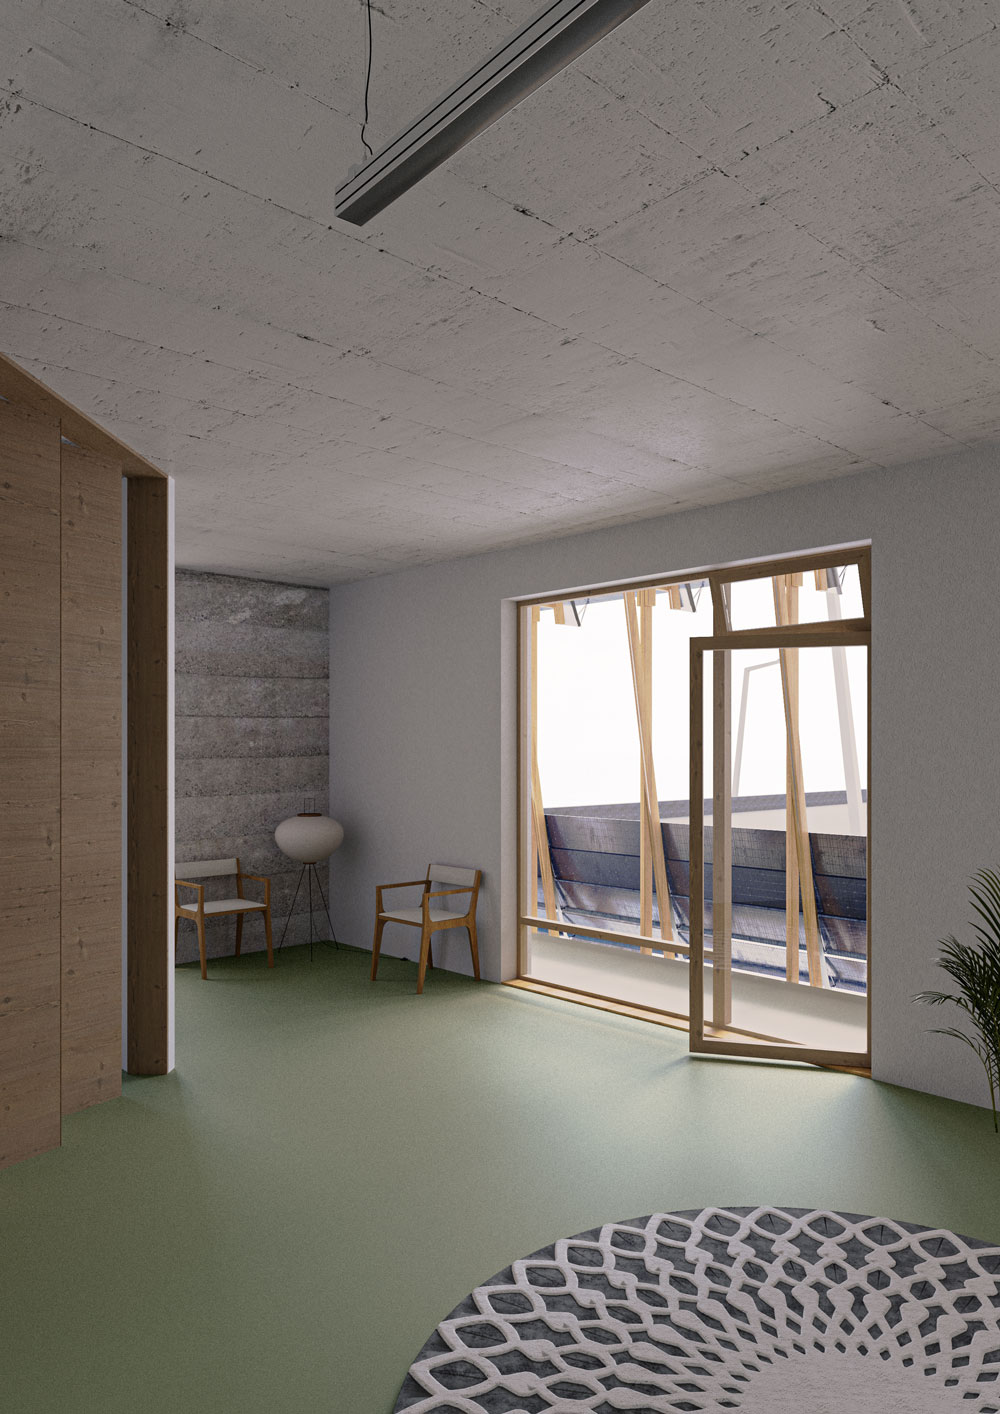
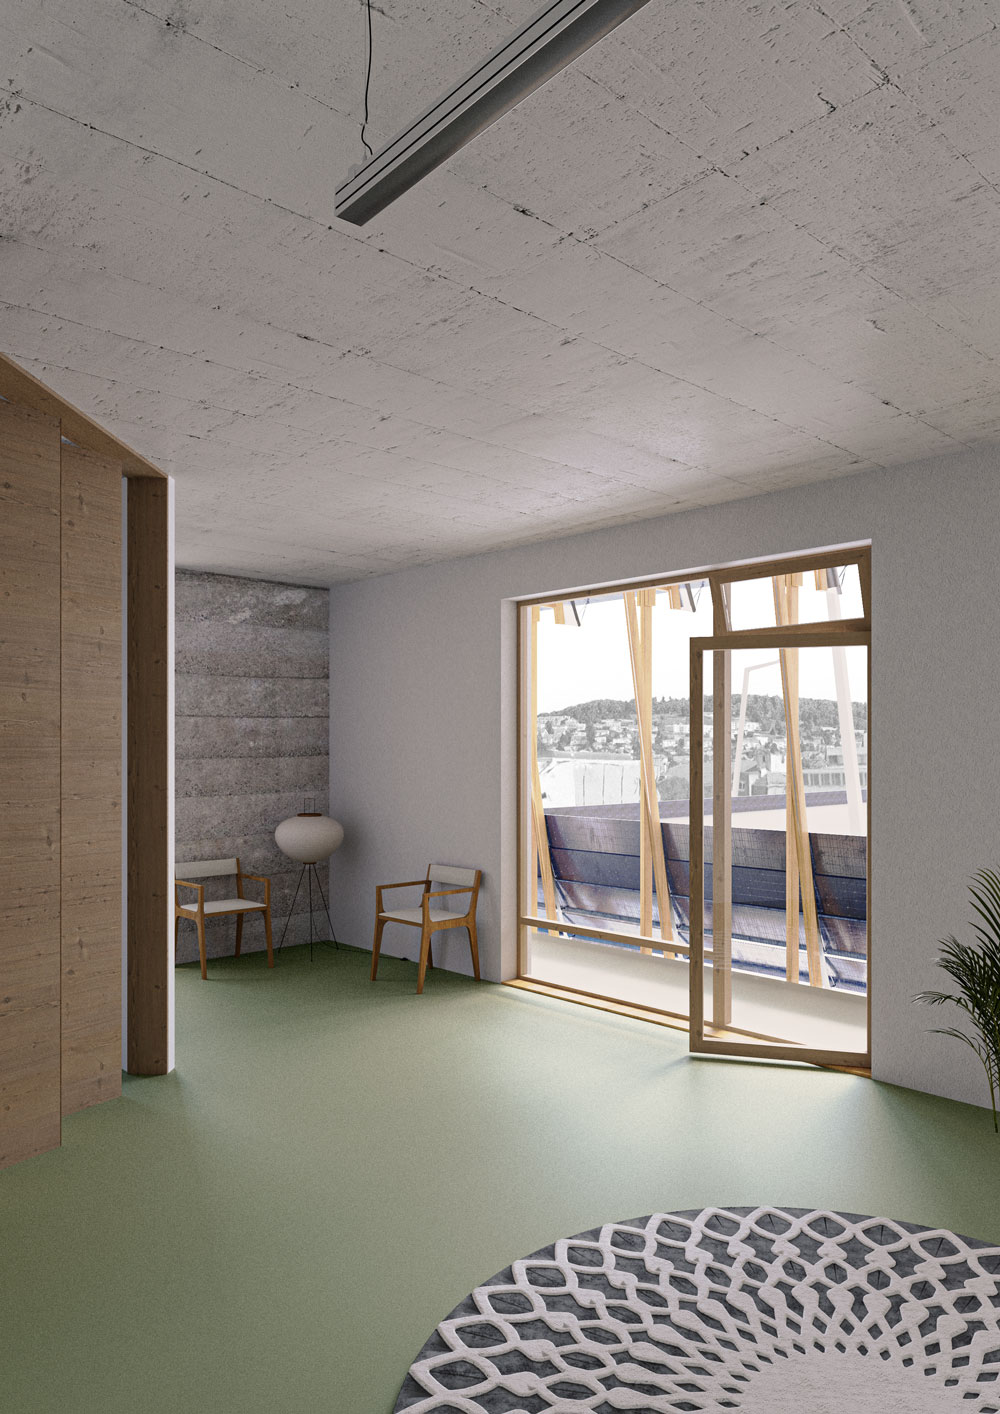
new renders

diff --git a/neue-hard.html b/neue-hard.html
@@ -66,7 +66,7 @@
 
                 <a class="right">
                     <div class="img-wrapper"><img
-                            src="portfolio/NeueHard/img/AussenRenderColorgraded-web.jpg"
+                            src="portfolio/NeueHard/img/AussenRenderColorgraded_Backround.jpg"
                             class="">
                         <div class="news-item-credit">Exterior view<br> <span class="italic"></span>
                         </div>
